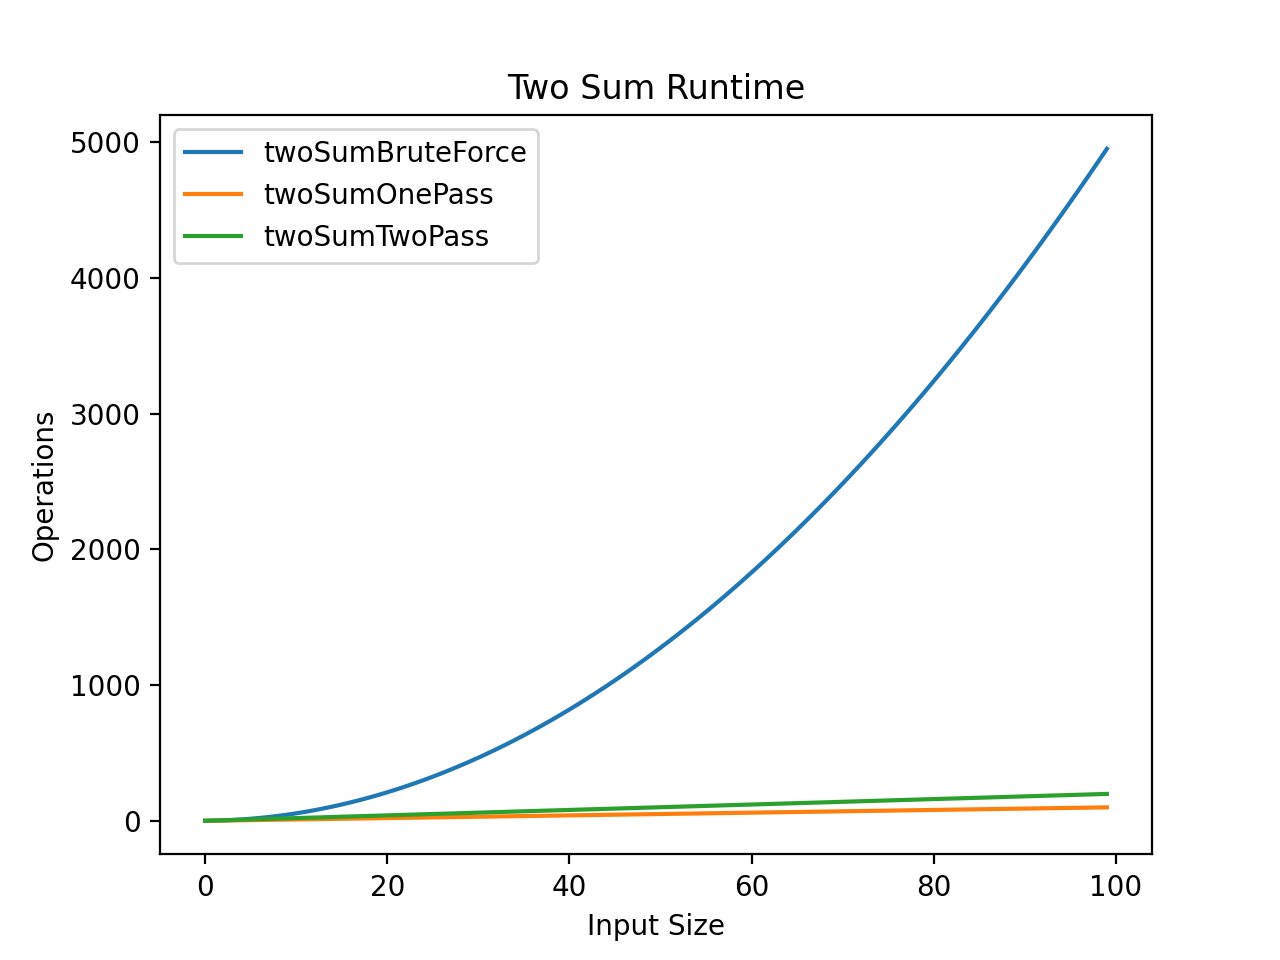
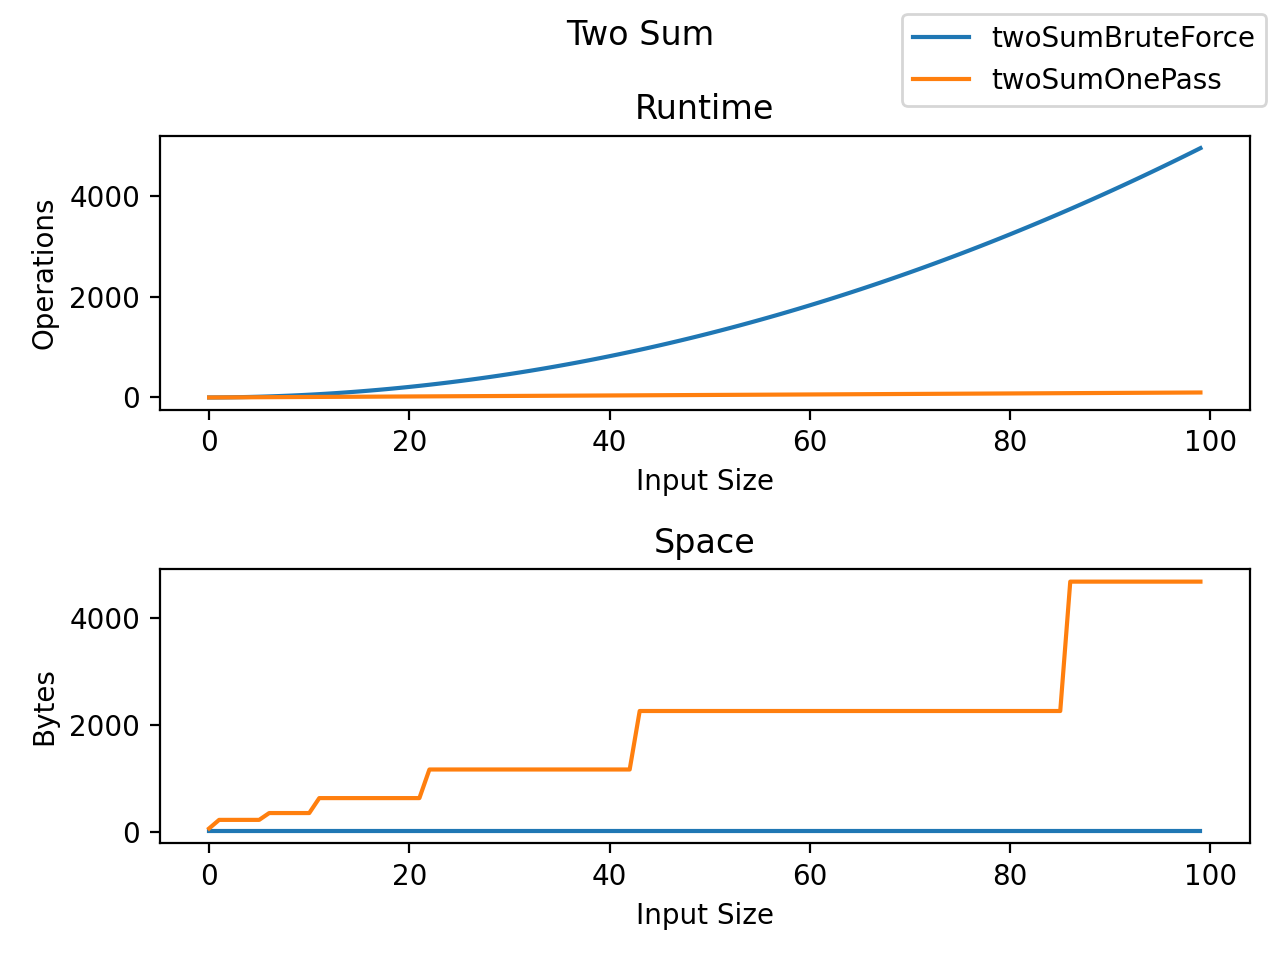
Plot space

diff --git a/src/problems/test_two_sum.py b/src/problems/test_two_sum.py
@@ -10,6 +10,7 @@ class Solution:
     def __init__(self):
         self.name = "Two Sum"
         self.runtime = test_utils.Runtime()
+        self.space = test_utils.Space()
 
     def twoSumBruteForce(self, nums: List[int], target: int) -> List[int]:
         for i in range(len(nums)):
@@ -21,19 +22,9 @@ class Solution:
                 if n + m == target:
                     return [i, j]
 
-    def twoSumTwoPass(self, nums: List[int], target: int) -> List[int]:
-        m = {}
-        for i, n in enumerate(nums):
-            self.runtime.step()
-            m[n] = i
-        for i, n in enumerate(nums):
-            self.runtime.step()
-            complement = target - n
-            if complement in m and m[complement] != i:
-                return [i, m[complement]]
-
     def twoSumOnePass(self, nums: List[int], target: int) -> List[int]:
         m = {}
+        self.space.watch(m)
         for i, n in enumerate(nums):
             self.runtime.step()
             complement = target - n
@@ -54,30 +45,48 @@ def test_solutions():
             assert func(nums, target) == expected, f"{name}"
 
 
-def plot_runtime():
-    data = {}
+def plot_complexity():
+    data = {
+        "runtime": {},
+        "space": {},
+    }
     s = Solution()
 
     for name, func in test_utils.get_methods(s):
         tests = [range(n) for n in range(100)]
         for test in tests:
+            n = len(test)
             func(test, -1)
-            if name not in data:
-                data[name] = {"x": [], "y": []}
-            data[name]["x"].append(len(test))
-            data[name]["y"].append(s.runtime.operations)
+            if name not in data["runtime"]:
+                data["runtime"][name] = {"x": [], "y": []}
+            if name not in data["space"]:
+                data["space"][name] = {"x": [], "y": []}
+            data["runtime"][name]["x"].append(n)
+            data["runtime"][name]["y"].append(s.runtime.operations)
             s.runtime.reset()
-
-    for name, values in data.items():
-        plt.plot(values["x"], values["y"], label=name)
+            data["space"][name]["x"].append(n)
+            data["space"][name]["y"].append(s.space.size())
+            s.space.reset()
 
     path = Path(__file__)
-    plt.title(f"{s.name} Runtime")
-    plt.xlabel("Input Size")
-    plt.ylabel("Operations")
-    plt.legend()
+
+    fig, [runtime, space] = plt.subplots(2)
+    fig.suptitle(s.name)
+
+    for name, values in data["runtime"].items():
+        runtime.plot(values["x"], values["y"], label=name)
+    runtime.set(title="Runtime", xlabel="Input Size", ylabel="Operations")
+
+    for name, values in data["space"].items():
+        space.plot(values["x"], values["y"], label=name)
+    space.set(title="Space", xlabel="Input Size", ylabel="Bytes")
+
+    handles, labels = runtime.get_legend_handles_labels()
+    fig.legend(handles, labels, loc="outside upper right")
+
+    fig.tight_layout()
     plt.savefig(f"src/problems/{path.stem}", dpi=200)
 
 
 if __name__ == "__main__":
-    plot_runtime()
+    plot_complexity()

diff --git a/src/problems/test_utils.py b/src/problems/test_utils.py
@@ -1,4 +1,5 @@
 import inspect
+import sys
 
 
 class Runtime:
@@ -12,6 +13,22 @@ class Runtime:
         self.operations = 0
 
 
-def get_methods(instance):
-    methods = inspect.getmembers(instance, predicate=inspect.ismethod)
-    return [(name, func) for name, func in methods if not name.startswith("_")]
+class Space:
+    def __init__(self):
+        self.reset()
+
+    def watch(self, object):
+        self.object = object
+
+    def size(self):
+        return sys.getsizeof(self.object)
+
+    def reset(self):
+        self.object = None
+
+
+def get_methods(object):
+    members = inspect.getmembers(object, predicate=inspect.ismethod)
+    methods = [(name, func) for name, func in members if not name.startswith("_")]
+
+    return methods
